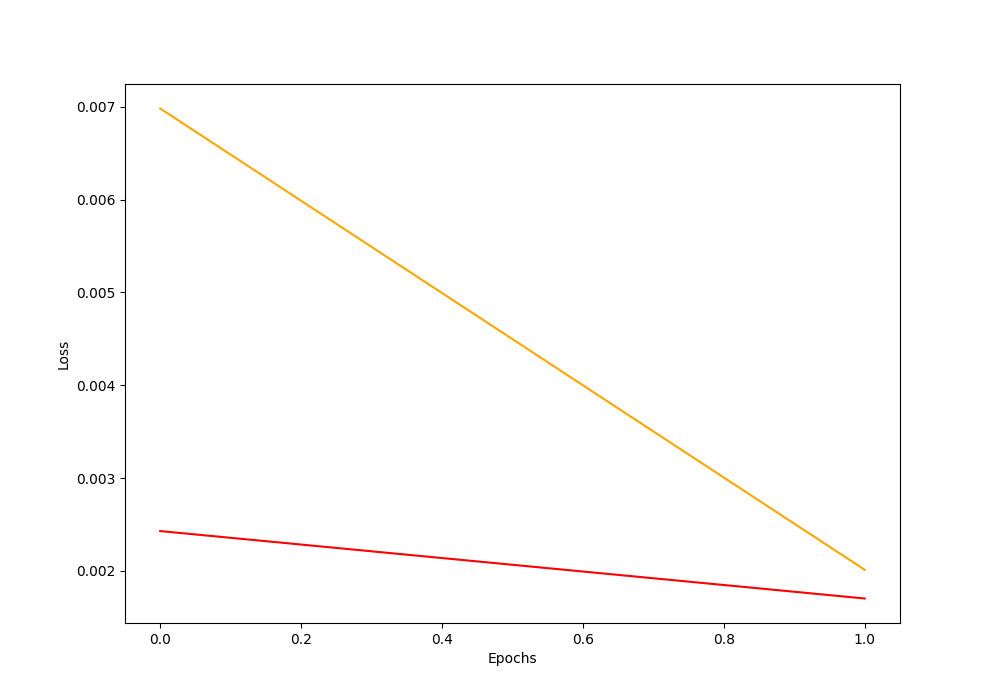
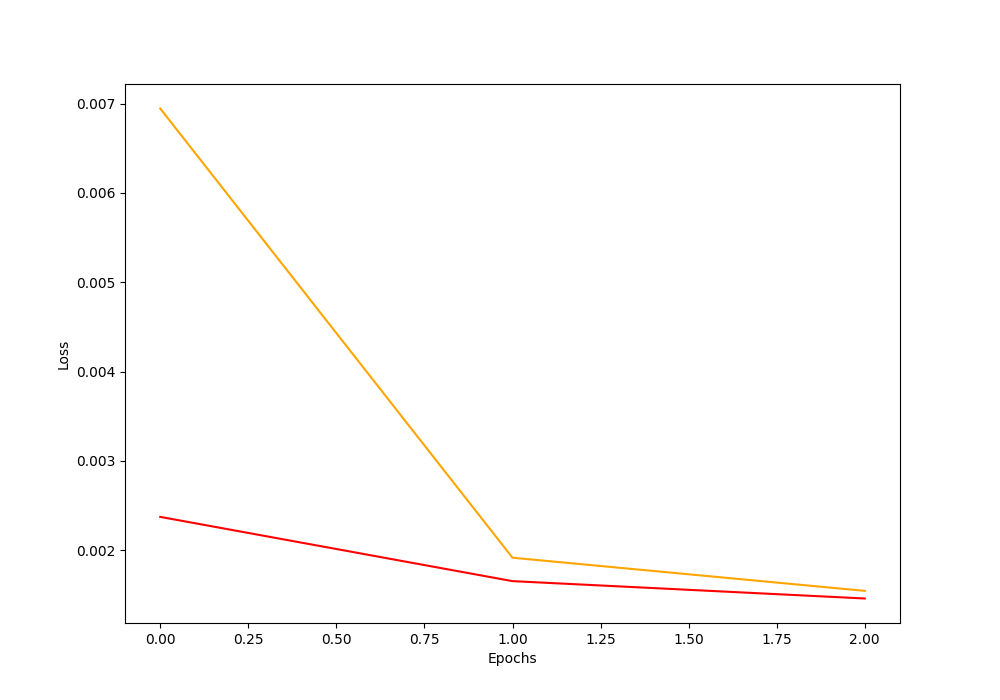
TensorBoard + Gauss Noise + Relu

diff --git a/main.py b/main.py
@@ -1,6 +1,7 @@
 import livelossplot
 import torch
 import cv2
+import torchvision
 from PIL import ImageFilter
 from numpy import random
 from torch import nn
@@ -16,6 +17,8 @@ from torchvision.transforms import transforms
 from torchsummary import summary
 import time
 import threading
+from torch.utils.tensorboard import SummaryWriter
+from datetime import datetime
 
 #################### ML Device #######################################
 device = 'cuda'
@@ -252,7 +255,8 @@ class Net(nn.Module):
 
         self.conv0 = nn.Sequential(
             nn.Conv2d(32, 1, 3, 1, 1),
-            nn.Sigmoid()
+            #nn.Sigmoid()
+            nn.ReLU()
         )
 
         self.max_pool = nn.MaxPool2d(2)
@@ -320,7 +324,7 @@ class GaussDataset(Dataset):
         else:
             return blur_image
 
-def create_dataset(batch_size = 8, kx=15, ky=3):
+def create_dataset(batch_size = 8, noise_level=0.0):
     images_train = read_images(DATA_PATH_TRAIN)
     print(images_train.shape)
     print(type(images_train))
@@ -334,14 +338,17 @@ def create_dataset(batch_size = 8, kx=15, ky=3):
     labels_test = read_labels(LABEL_PATH_TEST)
     print(labels_test.shape)
 
-    images_train_blur = create_blur_set(images_train, kx, ky)
+    #images_train_blur = create_blur_set(images_train, kx, ky)
+
+
+    images_train = normalize_min_max(images_train, 0.0, 1.0)
+
+    images_train_blur = np.add(images_train, noise_level * np.random.normal(loc=0, scale=(np.max(images_train) - np.min(images_train)) / 6., size=images_train.shape))
+    images_train_blur = normalize_min_max(images_train_blur, 0.0, 1.0)
     print(images_train_blur.shape)
 
-    images_train_blur = images_train_blur.astype(np.float32)
-    images_train_blur = images_train_blur / 255.
-
     images_train = images_train.astype(np.float32)
-    images_train = images_train / 255.
+    images_train_blur = images_train_blur.astype(np.float32)
 
     (x_train, x_val, y_train, y_val) = train_test_split(images_train_blur, images_train, test_size=0.25)
     #print("Data shapes:")
@@ -385,9 +392,9 @@ def train_step(model, dataLoader, optimizer, criterion, epoch):
     model.train()
     running_loss = 0.0
     print(' ')
-    print('Train Step')
-    #for i, data in tqdm.tqdm(enumerate(dataLoader), total=len(dataLoader.dataset) / dataLoader.batch_size, position=0,leave=True):
-    for i, data in enumerate(dataLoader):
+    print('Train Step:', epoch)
+    for i, data in tqdm.tqdm(enumerate(dataLoader), total=len(dataLoader.dataset) / dataLoader.batch_size, position=0,leave=True):
+    #for i, data in enumerate(dataLoader):
         blur_img = data[0].to(device)
         sharp_img = data[1].to(device)
         optimizer.zero_grad()
@@ -398,7 +405,7 @@ def train_step(model, dataLoader, optimizer, criterion, epoch):
         optimizer.step()
         running_loss += loss.item()
     train_loss = running_loss/len(dataLoader.dataset)
-    print(f"Train Loss: {train_loss:.5f}")
+    #print(f"Train Loss: {train_loss:.5f}")
 
     return train_loss
 
@@ -406,57 +413,63 @@ def train_step(model, dataLoader, optimizer, criterion, epoch):
 def val_step(model, dataLoader, optimizer, criterion, epoch):
     model.eval()
     running_loss = 0.0
-    print(' ')
-    print('Eval Step')
+    #print(' ')
+    #print('Eval Step')
     with torch.no_grad():
         #for i, data in tqdm.tqdm(enumerate(dataLoader), total=len(dataLoader.dataset) / dataLoader.batch_size, position=0, leave=True):
         for i, data in enumerate(dataLoader):
             blur_img = data[0].to(device)
             sharp_img = data[1].to(device)
             output = model_RGB(model, blur_img)
-
-            if epoch % 5:
-                sample1 = blur_img[0].cpu()
-                sample2 = output[0].cpu()
-                sample3 = sharp_img[0].cpu()
-                plot_sample(sample1, sample2, sample3, epoch)
-
+            samples = torch.stack([blur_img[0], output[0], sharp_img[0]], dim=0)
             loss = criterion(output, sharp_img)
             running_loss += loss.item()
         val_loss = running_loss / len(dataLoader.dataset)
-        print(f"Val Loss: {val_loss:.5f}")
+        #print(f"Val Loss: {val_loss:.5f}")
 
-        return val_loss
+        return val_loss, samples
 
 def train(nr_epoch, model, trainLoader, valLoader, optimizer, criterion, lr_scheduler):
     train_loss = []
     val_loss = []
     min_loss = sys.float_info.max
+    tb = SummaryWriter()
     start = time.time()
+    now = datetime.now()
+    current_time = now.strftime("%H_%M_%S")
+    last_ck = './checkpoints/Model_' + current_time + '.pth'
+    print("Check . tensorboard --logdir=runs . for logs")
 
-    for epoch in tqdm.tqdm(range(nr_epoch), total=nr_epoch, position=0, leave=True):
+    for epoch in range(nr_epoch):
         logs = {}
         train_epoch_loss = train_step(model, trainLoader, optimizer, criterion, epoch)
-        val_epoch_loss = val_step(model, valLoader, optimizer, criterion, epoch)
+        val_epoch_loss, samples = val_step(model, valLoader, optimizer, criterion, epoch)
         train_loss.append(train_epoch_loss)
         val_loss.append(val_epoch_loss)
         lr_scheduler.step(val_epoch_loss)
 
 
-        plot_loss(train_loss, val_loss)
+        #plot_loss(train_loss, val_loss)
+        tb.add_scalar("Train Loss", train_epoch_loss, epoch)
+        tb.add_scalar("Val Loss", val_epoch_loss, epoch)
+        #tb.add_image('Input - Gauss', samples[0])
+        #tb.add_image('Output', samples[1])
+        #tb.add_image('Original -
+        print(samples.shape)
+        img_grid = torchvision.utils.make_grid(samples)
+        tb.add_image("Input - Output - Original", img_grid)
 
         if val_epoch_loss < min_loss:
             min_loss = val_epoch_loss
         print(f"################################ \n")
         print(f"Epoch Losses - Min Val: {min_loss:.5f} \n")
         print(f"Train: {train_epoch_loss:.5f} & Val: {val_epoch_loss:.5f} \n")
+        save_checkpoint(last_ck, model, optimizer)
+        print('Saved Checkpoint!')
         print(f"################################ \n")
 
-        if not epoch % 5:
-            save_checkpoint('./checkpoints/latestModel.pth', model, optimizer)
-            print('Saved Checkpoint!')
-
     end = time.time()
+    tb.close()
     print(f"Took {((end - start) / 60):.3f} minutes to train")
 
 def plot_loss(train_loss, val_loss):
@@ -518,11 +531,12 @@ def plot_sample(sample1, sample2, sample3, epoch):
     imgplot = plt.imshow(sample3)
     ax.set_title('Target - Sharp')
     plt.savefig("./comparisons/Comparison-Epoch" + str(epoch) + ".png")
+    plt.close("all")
 
 if __name__ == '__main__':
     nr_epoch = 100
-
-    trainLoader, valLoader = create_dataset(batch_size=8,kx=15, ky=3)
+    #matplotlib.use('Agg')
+    trainLoader, valLoader = create_dataset(batch_size=8, noise_level=0.25)
     #check_pairs(trainLoader)
 
     model, criterion, lr_scheduler, optimizer = initialize_model(train=True)
@@ -530,3 +544,5 @@ if __name__ == '__main__':
     #compare_gauss()
     #checkpoint = './checkpoints/16-02-2022-DeblurSTD.pth'
     #visual_test(model, optimizer, checkpoint, valLoader)
+
+    #image += noise_level * torch.normal(mean=0, std=(image.max() - image.min()) / 6., size=image.shape).cuda()
